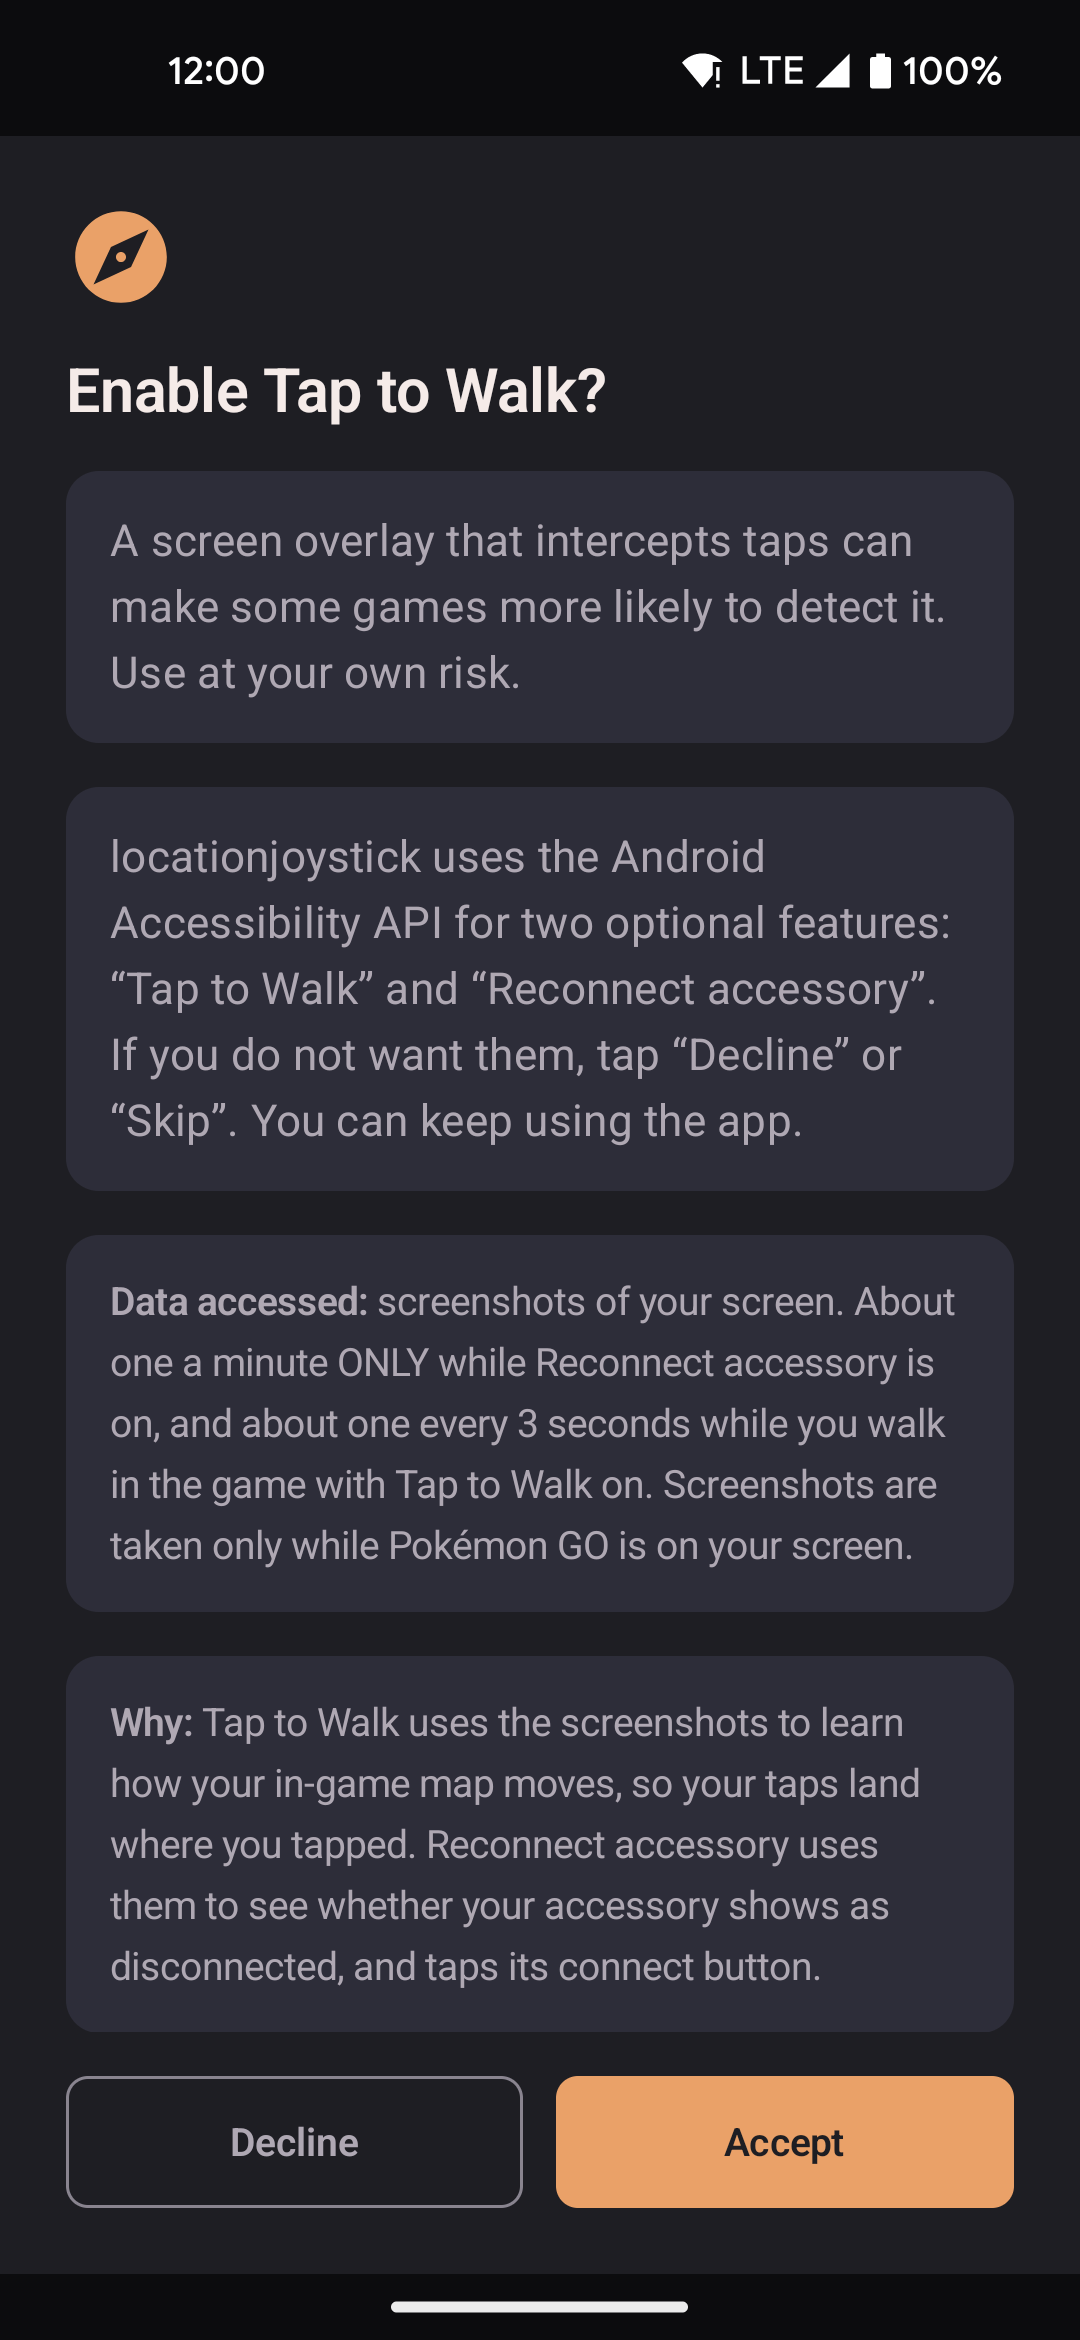
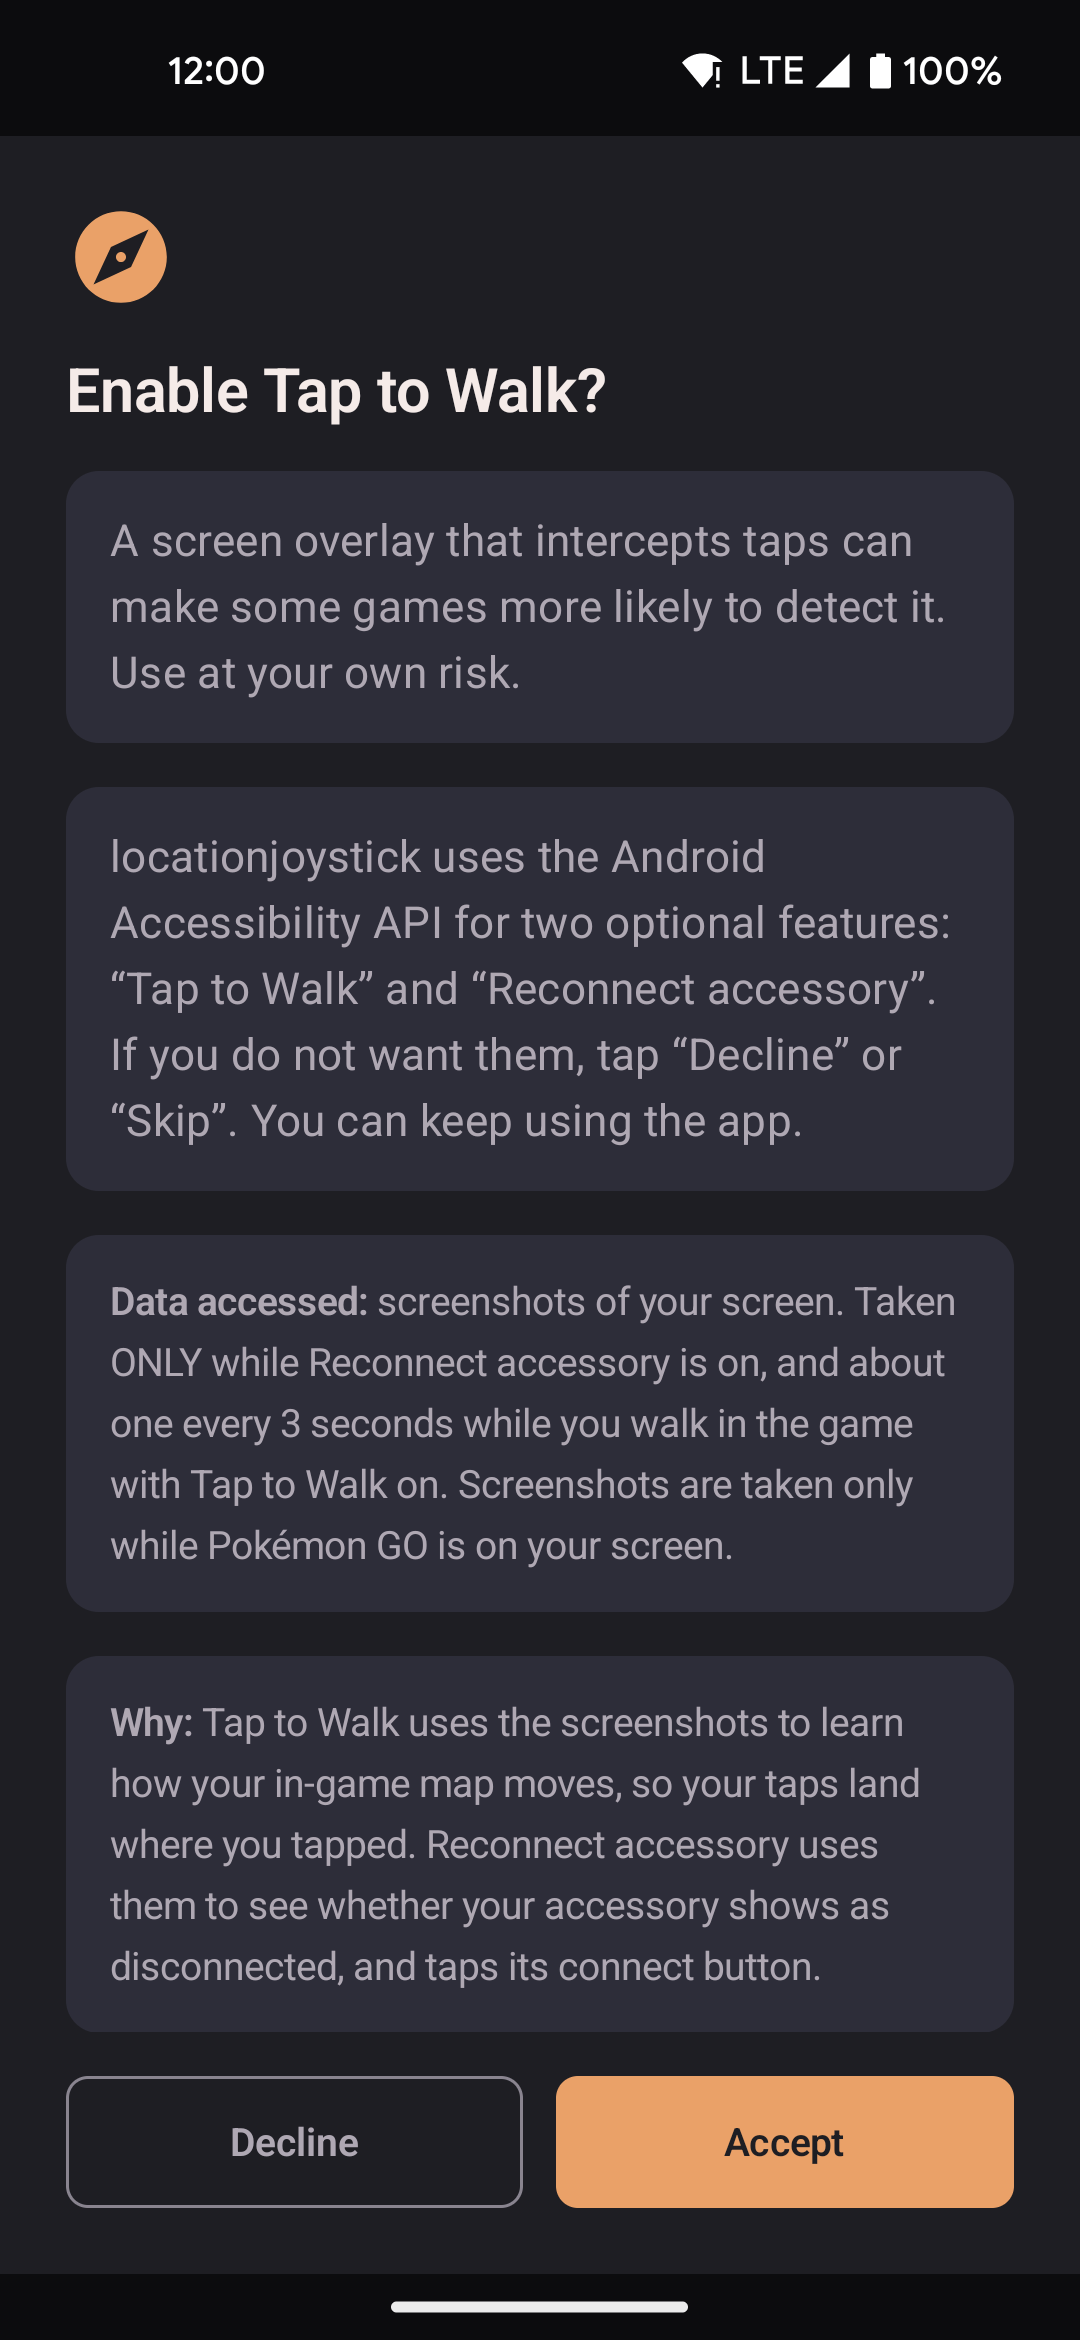
docs(reconnect): relabel paused status, fill wiki gaps, drop disclosure frequency

Changed region(s): [[0.0917, 0.5303, 0.8861, 0.6863]]

diff --git a/docs/wiki/reconnect-accessory.html b/docs/wiki/reconnect-accessory.html
@@ -37,17 +37,17 @@
     <ol class="quickstart">
       <li>Open <strong>Settings &rarr; Menus &rarr; Reconnect accessory</strong>.</li>
       <li>Turn on <strong>Reconnect accessory automatically</strong>.</li>
-      <li>Read the notice and tap <strong>Accept</strong>.</li>
+      <li>If the app shows a notice, read it and tap <strong>Accept</strong>. You skip this if you already accepted it.</li>
       <li>Turn on the app in the Android Accessibility screen that opens.</li>
     </ol>
     <p>Whether the screen helper is on is shown in the <strong>Screen access</strong> block above this section. If the helper is off, this section tells you and offers an <strong>Open settings</strong> button.</p>
 
     <h2 id="result">Result</h2>
-    <p>About every minute, while your screen is on and the game is open, the app looks at your screen. It taps the connect button only if the accessory shows as disconnected.</p>
+    <p>About every minute at first, while your screen is on and the game is open, the app looks at your screen. It taps the connect button only if the accessory shows as disconnected. After failed reconnects, the app waits longer between checks, up to 5 minutes. Reconnect also pauses while Tap to Walk is on.</p>
     <p>If the accessory fails to reconnect several times in a row, the app sends you a notification titled <strong>Accessory did not reconnect</strong>. Tap it to open the app. It clears itself once the accessory is back.</p>
     <p>If the game is open but the connect button stays hidden for a long time, the app sends a notification titled <strong>Accessory control not found</strong>. Reconnect pauses: the app does not tap while the button is hidden, but it keeps checking. It taps again by itself once the button shows. The notification clears itself once the button is found again.</p>
-    <p>Turn on Debug stats in Settings to see the last check in the floating widget. It shows when the check ran and what it found: no reconnect needed, reconnected, failed, game not in front, or control not found. It starts empty and clears when you turn the switch off.</p>
-    <p>If the last check says the game is not in front while the game is open, switch to another app, then back to the game. The app only learns which app is in front when you switch apps.</p>
+    <p>Turn on Debug stats in Settings to see the last check in the floating widget. It shows when the check ran and what it found: no reconnect needed, reconnected, failed, paused, or control not found. It starts empty and clears when you turn the switch off.</p>
+    <p>If the last check says <strong>Paused: game not in front or Tap to Walk on</strong>, turn off Tap to Walk first. If Tap to Walk is off and the game is open, switch to another app, then back to the game. The app only learns which app is in front when you switch apps.</p>
 
     <h2 id="limits-and-risks">Limits and risks</h2>
     <ul class="section-bullets">
